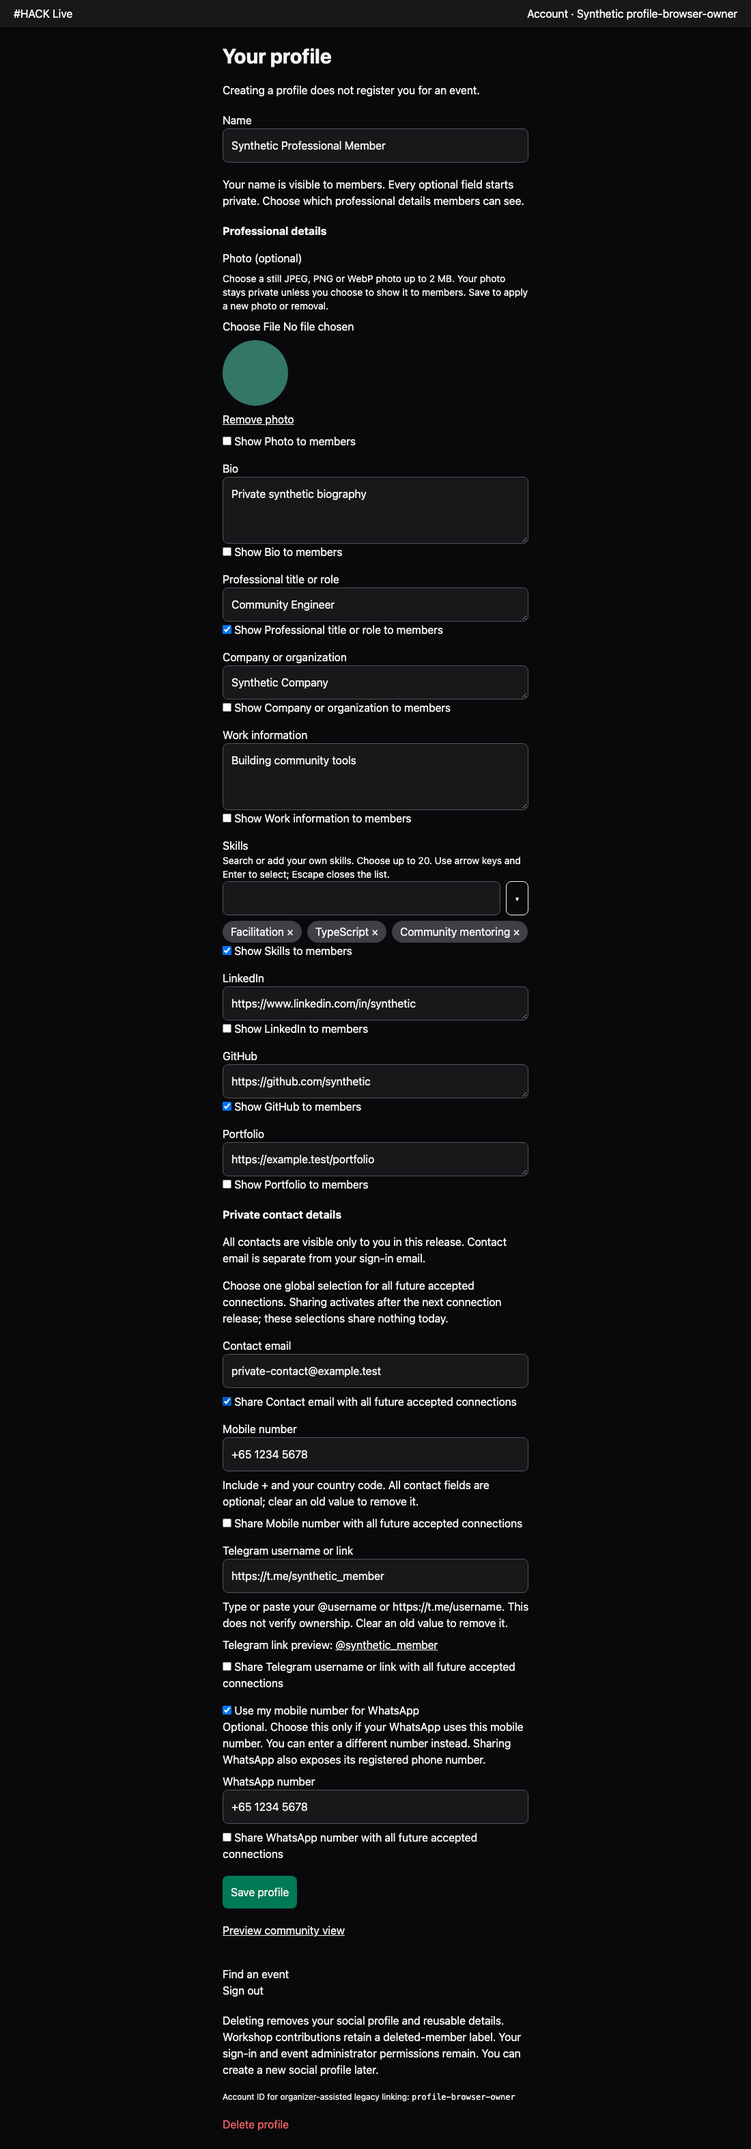
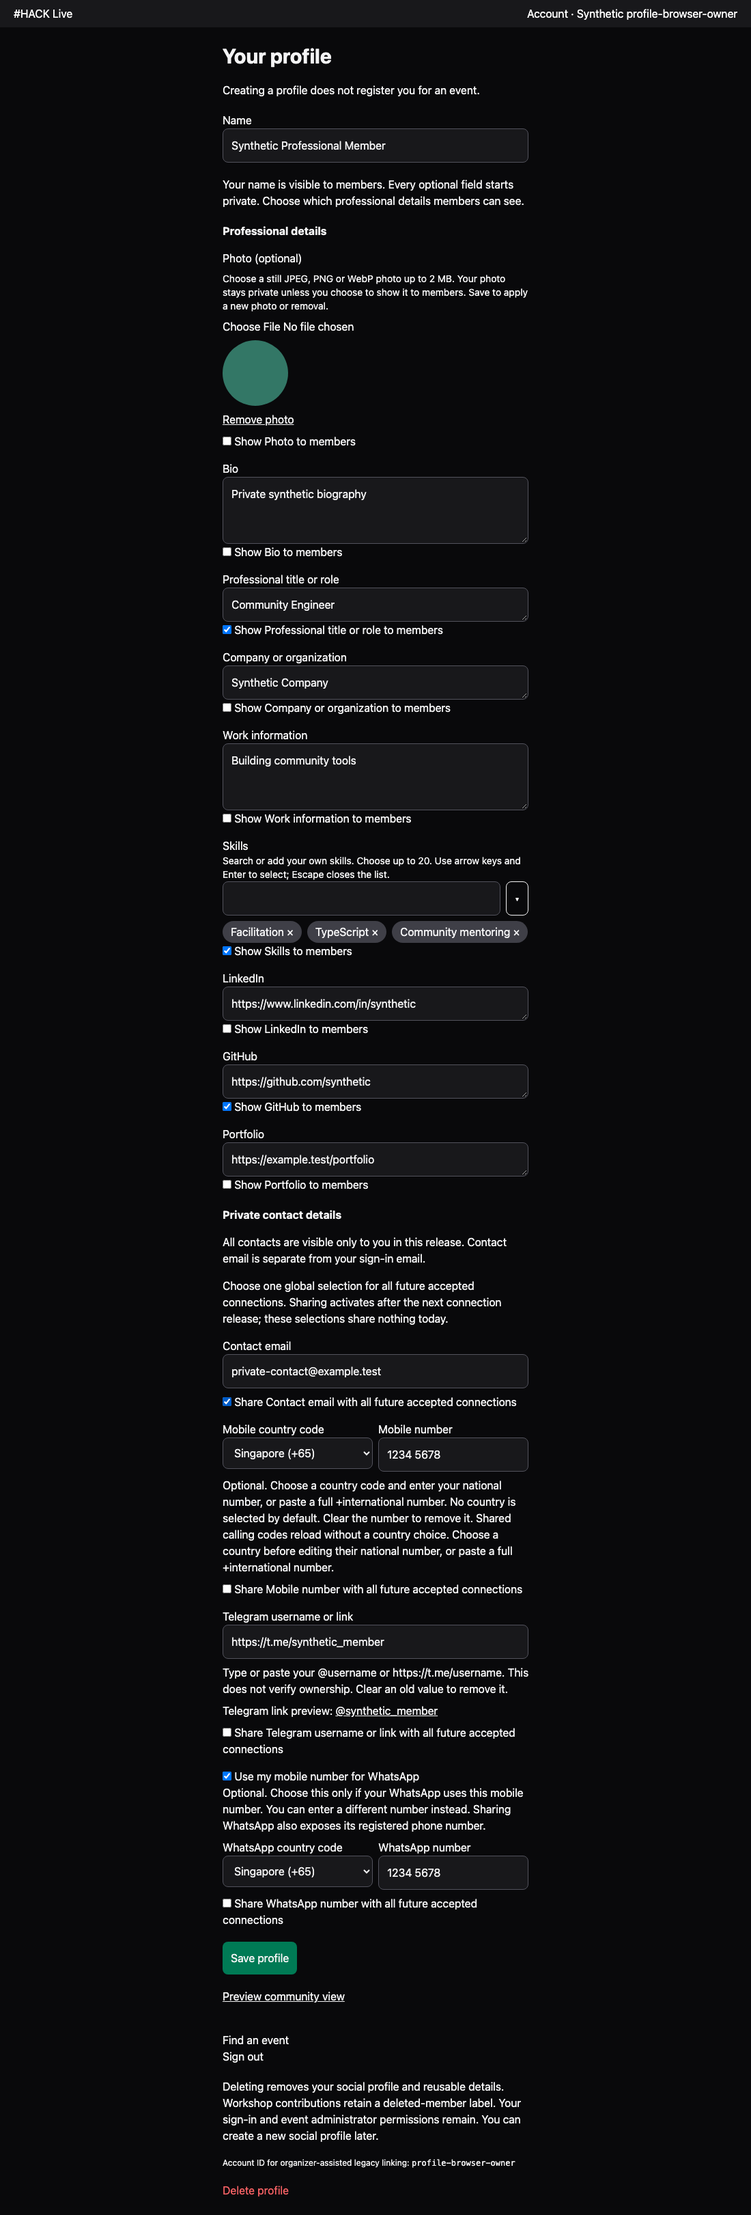
docs(profile): record country selector validation and current demos

Changed region(s): [[0.2782, 0.0312, 0.7109, 0.9968]]

diff --git a/docs/profile-pr2.md b/docs/profile-pr2.md
@@ -38,15 +38,23 @@ Deploy restrictive Firestore rules, bytes-index exemption and trusted server tog
 
 ## Repeatable validation and evidence
 
-Use Node 24, Java 21 and exclusive ports 3000/8080/9099/9150. `npm run typecheck`, `npm run build`, `npm run test:profile`, and `npm run test:emulators` are the established commands. The final paced cumulative emulator run passed all 39 tests: 7 isolated validation/image tests, all 19 parent/PR2 authorization/integrity regressions, 5 photo API/rules tests and 8 Chromium journeys. Auth/Firestore and all people/photos are synthetic `demo-hack-live`; no production data or deployment is involved. The build retains the pre-existing large-bundle advisory.
+Use Node 24, Java 21 and exclusive ports 3000/8080/9099/9150. `npm run typecheck`, `npm run build`, `npm run test:profile`, and `npm run test:emulators` are the established commands. The final paced cumulative emulator run passed all 47 tests: 10 isolated validation/image/parser tests, all 19 parent/PR2 authorization/integrity regressions, 5 photo API/rules tests and 13 Chromium journeys. Auth/Firestore and all people/photos are synthetic `demo-hack-live`; no production data or deployment is involved. The build retains the pre-existing large-bundle advisory.
 
-Pure tests verify skills normalization/bounds, decoded raster content/type/pixels/orientation/metadata and input/output bounds. API/rules tests compare actual uploaded/retrieved bytes, private/default/shared/revoked access, all auth classes, missing/deleting/deleted caller and owner denial, owner/admin direct-rule denial, stale/cross-owner references, replacement/removal, actual body limits, invalid request atomicity, deletion failure/retry and old-attempt protection of fresh photos. Browser tests cover real file selection/preview/private save/reload, keyboard/multi/custom skills persistence, progressive correction of multiple overlong legacy skills and excess skill count with unrelated edits surviving reload, consent-gated other-member rendering, replace/remove drafts, revocation during a delayed real authenticated photo fetch, contact privacy, mobile viewport and deletion. Existing workshop/identity browser regressions remain cumulative.
+Pure tests verify skills normalization/bounds, decoded raster content/type/pixels/orientation/metadata and input/output bounds. API/rules tests compare actual uploaded/retrieved bytes, private/default/shared/revoked access, all auth classes, missing/deleting/deleted caller and owner denial, owner/admin direct-rule denial, stale/cross-owner references, replacement/removal, actual body limits, invalid request atomicity, deletion failure/retry and old-attempt protection of fresh photos. Browser tests cover real file selection/preview/private save/reload, keyboard/multi/custom skills persistence, progressive correction of multiple overlong legacy skills and excess skill count with unrelated edits surviving reload, consent-gated other-member rendering, replace/remove drafts, revocation during a delayed real authenticated photo fetch, contact privacy, mobile viewport and deletion. Country regressions cover explicit selection/no default, national-number preservation on code change, international paste, shared +1/+44/+39 fallbacks, UK/Italian trunk zeros, optional empty/country-only drafts, legacy correction/clear and independent/linked WhatsApp save/reload. Concrete IDD-prefix, unknown-prefix/explicit-choice and shared-code edit regressions verify rejected saves leave stored source unchanged. Real delayed FileReader tests first reproduced stale saves into a different account and a same-uid recreated profile; the final tests require no save request and unchanged target name/source/photo. First profile creation and recreation both open the private editor without reload or a permission error after committed activation. Existing workshop/identity browser regressions remain cumulative.
 
-`PROFILE_DEMO=true npm run test:emulators` repeats the actual suite with four-second reading holds in the profile journey; `node scripts/collect-profile-demo.mjs` stages videos/screenshots only after a passed run. Videos remain ignored. The current owner/other-member recordings were uploaded through the official GitHub CLI attachment command for native inline playback in the PR description; published native players and downloaded byte checksums were verified. Recording provenance, local checksums and current attachment links are recorded in [PR2 evidence](evidence/profile-pr2.md). Synthetic Chromium recordings are not production, live OAuth or real-device evidence.
+`PROFILE_DEMO=true npm run test:emulators` repeats the actual suite with four-second reading holds in the profile journey; `node scripts/collect-profile-demo.mjs` stages videos/screenshots only after a passed run. Videos remain ignored. The current owner, other-member and focused country-selector recordings are local, ignored WebMs; this checkpoint does not upload them or change the PR body. Earlier published videos show a previous editor and are not current selector evidence. Current source, recording provenance, durations, sizes and SHA-256 values are recorded in [PR2 evidence](evidence/profile-pr2.md). Synthetic Chromium recordings are not production, live OAuth or real-device evidence.
 
 ## Contact revision and downstream seam
 
-The optional contact allowlist is `contactEmail`, `phone` (mobile), `telegram`, `whatsapp`. All values remain strings. `whatsappUsesMobile?: boolean` is additive **owner-private** source metadata; missing means false, Save writes an explicit boolean. Only an explicit checked choice derives canonical WhatsApp from mobile on every Save. A missing/invalid linked mobile is correctable by entering an international number or unchecking the choice. Unchecking retains the current number as an independent editable draft. Neither mode nor matching numbers changes either sharing selection. All edits, selections and mode remain drafts until Save. The owner editor uses separate native country-code selectors and national-number inputs for Mobile and WhatsApp. No country is selected for a new number; owners explicitly choose it or paste a full +international number. UI-only drafts use pinned `libphonenumber-js` 1.13.16 with its complete supported-country/calling-code metadata and strict national parsing (GB trunk zero removed, Italian significant zero retained). Country names come from `Intl.DisplayNames`, never locale-based country inference. [Official library documentation](https://github.com/catamphetamine/libphonenumber-js#readme) documents `getCountries`, `getCountryCallingCode`, `parsePhoneNumberFromString` and strict `extract: false`. The dependency adds no network requests, phone lookup or ownership verification. Country selection preserves national digits; international paste overrides a selected prefix without doubling it. International dialing prefixes that parse to a different calling code are rejected with instructions to paste a full +number, rather than re-prefixing the foreign number. An untouched unrecognized legacy +code stays compatible; explicitly choosing a country requires correcting that value before Save. Loaded/pasted international digits bypass national-prefix rewriting until the owner edits them. A country-only empty draft remains optional. Linked WhatsApp mirrors and disables both controls; unchecking retains the mirrored number as its editable separate draft. Sharing flags remain independent. Canonical contacts remain E.164 strings under the existing API validation; no schema, rules, migration or persisted country metadata changes. Existing E.164 values hydrate losslessly, including non-geographic and unrecognized legacy calling codes; malformed legacy text remains correctable/clearable. Edited national digits under a neutral shared calling code require an explicit country choice, or a new full +international paste; Save rejects without writes until corrected. Non-geographic calling codes have a distinct label and require a full +international paste when edited. Shared calling codes (including +1 and +44) reload with a neutral “shared calling code” option rather than a guessed country. Neutral fallback options appear only for the currently loaded/pasted code, with a purpose hint; new-number dropdowns offer country choices only. Choosing a specific country removes the fallback while retaining national digits. A chosen country is intentionally UI-only and may therefore not survive reload. Existing nonallocated but structurally accepted numbers remain compatible; the parser does not assert numbering-plan validity. Sharing WhatsApp reveals its registered number ([official click-to-chat format](https://faq.whatsapp.com/5913398998672934)).
+The optional contact allowlist is `contactEmail`, `phone` (mobile), `telegram`, `whatsapp`. All values remain strings. `whatsappUsesMobile?: boolean` is additive **owner-private** source metadata; missing means false, Save writes an explicit boolean. Only an explicit checked choice derives canonical WhatsApp from mobile on every Save. A missing/invalid linked mobile is correctable by entering an international number or unchecking the choice. Unchecking retains the current number as an independent editable draft. Neither mode nor matching numbers changes either sharing selection. All edits, selections and mode remain drafts until Save. Sharing WhatsApp reveals its registered number ([official click-to-chat format](https://faq.whatsapp.com/5913398998672934)).
+
+The owner editor uses separate native country-code selectors and national-number inputs for Mobile and WhatsApp. No country is selected for a new number; owners explicitly choose it or paste a full +international number. UI-only drafts use pinned `libphonenumber-js` 1.13.16 with its complete supported-country/calling-code metadata and strict national parsing (GB trunk zero removed, Italian significant zero retained). Country names come from `Intl.DisplayNames`, never locale-based country inference. [Official library documentation](https://github.com/catamphetamine/libphonenumber-js#readme) documents `getCountries`, `getCountryCallingCode`, `parsePhoneNumberFromString` and strict `extract: false`. The dependency adds no network requests, phone lookup or ownership verification.
+
+Country selection preserves national digits; international paste overrides a selected prefix without doubling it. International dialing prefixes that parse to a different calling code are rejected with instructions to paste a full +number, rather than re-prefixing the foreign number. An untouched unrecognized legacy +code stays compatible; explicitly choosing a country requires correcting that value before Save. Loaded/pasted international digits bypass national-prefix rewriting until the owner edits them. A country-only empty draft remains optional. Linked WhatsApp mirrors and disables both controls; unchecking retains the mirrored number as its editable separate draft. Sharing flags remain independent.
+
+Canonical contacts remain E.164 strings under the existing API validation; no schema, rules, migration or persisted country metadata changes. Existing E.164 values hydrate losslessly, including non-geographic and unrecognized legacy calling codes; malformed legacy text remains correctable/clearable.
+
+Edited national digits under a neutral shared calling code require an explicit country choice, or a new full +international paste; Save rejects without writes until corrected. Non-geographic calling codes have a distinct label and require a full +international paste when edited. Shared calling codes (including +1 and +44) reload with a neutral “shared calling code” option rather than a guessed country. Neutral fallback options appear only for the currently loaded/pasted code, with a purpose hint; new-number dropdowns offer country choices only. Choosing a specific country removes the fallback while retaining national digits. A chosen country is intentionally UI-only and may therefore not survive reload. Existing nonallocated but structurally accepted numbers remain compatible; the parser does not assert numbering-plan validity.
 
 Telegram accepts plain username, @username, `t.me/username` or exact HTTPS profile link, stored as @username with an owner-only link preview. Safe single-path parsing rejects credentials, other hosts, extra paths, queries, fragments and encoded routes. The character allowlist includes short collectible names rather than imposing the basic username creation minimum; values remain self-reported ([Telegram FAQ](https://telegram.org/faq#q-what-can-i-use-as-my-username), [public username links](https://core.telegram.org/api/links#public-username-links)). Legacy malformed Telegram values remain visible and editable; the editor asks to correct or clear them before Save and preserves unrelated drafts on failure. Standard native email/tel autocomplete supports user-chosen autofill. No clipboard/contacts read or permission, provider login, app detection or bot is introduced. [Contact Picker](https://developer.mozilla.org/en-US/docs/Web/API/Contact_Picker_API) has limited browser support and standard contact data rather than Telegram usernames. [Official Telegram Login](https://core.telegram.org/bots/telegram-login) requires a bot, registered allowed URLs and credentials; that is separate future scope.
 

diff --git a/docs/evidence/profile-pr2.md b/docs/evidence/profile-pr2.md
@@ -1,34 +1,44 @@
-# PR2 profile and contact evidence
+# PR2 country selector evidence
 
-The owner/other-member recordings are actual Playwright Chromium interactions with synthetic Firebase Auth/Firestore emulators (`demo-hack-live`). They use real generated PNG file bytes, the trusted server decoder/storage/read path and actual sharing rules. No Firebase/Auth substitute, fabricated UI or production data is involved. `PROFILE_DEMO=true` adds four-second reading holds at key screens.
+Current recordings are actual Playwright Chromium interactions with synthetic Firebase Auth/Firestore emulators (`demo-hack-live`). File selection uses real generated PNG bytes, native FileReader, the trusted image decoder and authenticated API/rules. No fabricated UI, production data or live messaging is involved. `PROFILE_DEMO=true` adds four-second reading holds.
 
-The recordings use validated source `84f31d6feeb9c60366672f985b5e0570a2ad599f`; the publication followup changes documentation only. The passing paced cumulative run passed **39 tests**: 7 pure validation/image tests, 24 API/rules tests (19 identity and 5 photo) and 8 Chromium journeys. Node 24 typecheck and production build passed; the existing large-bundle advisory remains. All local services were shut down and ports 3000/8080/9099/9150 verified free. No production data or deployment was used.
+Validated product/test source: `fd214e4dcba79fef3422c570622709a2e8a71012`. The final paced cumulative run passed **47 tests**: 10 pure/image/parser tests, 24 API/rules tests (19 identity and 5 photo), and 13 Chromium journeys. Node **24.22.2** typecheck and production build passed with Java 21.0.1; the existing large-bundle advisory remains. A later evidence commit changes documentation/screenshots only.
 
-Both native video attachments were uploaded using the official GitHub CLI attachment command with task-local CLI and scoped credentials. Their published native players were checked and downloaded bytes matched the frozen local SHA-256 values below. No Chrome access, real messaging targets, login-provider infrastructure or device permissions were involved. Local WebMs remain ignored and uncommitted.
+The three current WebMs are local, ignored and uncommitted. They have **not** been uploaded or inserted into a PR body in this checkpoint; publication remains with the coordinating root after acceptance. Earlier native attachments show a previous contact editor and are not current country-selector evidence.
 
-## Owner: photo, searchable skills and private contact choices
+## Owner: current profile editor
 
-https://github.com/user-attachments/assets/bf959c7c-743c-4151-a830-618814050fbb
[1 lines of base64/hex data omitted]
 
[1 lines of base64/hex data omitted]
+Shows real photo selection, searchable/custom skills, private contacts and independent consent, community preview, save/reload, photo replacement/revocation/removal, mobile viewport and deletion. The country selector visibly changes from United Kingdom (+44) to Singapore (+65) while national digits stay unchanged (readable holds around 14 and 24 seconds). WhatsApp linking is explicit; Telegram preview remains owner-only.
 
-Shows searchable predefined/custom skills, keyboard selection, removable chips and persistence; invalid-file feedback, real PNG preview, private save/reload and selected community preview; Telegram link entry with safe owner preview; explicit same-mobile WhatsApp choice, independent sharing selections and registered-number exposure hint; photo sharing/replacement/revocation/removal, mobile viewport and deletion. No Signal field is displayed. The contact area is readable around 12 seconds and again at the narrow viewport hold around 54 seconds. Neither Telegram nor WhatsApp targets are opened or messaged.
+## Other member: selected projection and revocation
 
-## Other member: selected professional details and live photo revocation
[1 lines of base64/hex data omitted]
 
-https://github.com/user-attachments/assets/aaefd12f-9653-4593-93c7-ff80cb9e0edf
+An independent real signed-in member sees selected professional fields and an uploaded photo only after consent; replacement/revocation and deletion update the view. Private contacts and WhatsApp mode stay absent. Decoded frames around 8 and 15 seconds show the selected photo present and later revoked.
 
[1 lines of base64/hex data omitted]
+## Owner: focused country selector journey
 
-An independent signed-in member initially sees selected title, skills and GitHub, while private photo/bio/company/contacts remain absent. Explicit photo consent makes the uploaded image visible; replacement updates it. Revocation removes it, including when a real authenticated image response is delayed. Title revocation and profile deletion update the view live. Contacts and WhatsApp mode remain owner-private throughout.
[1 lines of base64/hex data omitted]
+
+Focused changed UI: Singapore national input, linked disabled Mobile/WhatsApp controls, +1 paste, explicit US/Canada choice preserving digits, independent UK WhatsApp with national trunk zero, save/reload, Italy significant zero, optional clear and a narrow keyboard-driven selector. Holds around 4, 9 and 15 seconds show linked Singapore, linked Canada and separate UK WhatsApp. The 390×844 resized desktop viewport is letterboxed inside the fixed recording canvas; it is not real-device evidence.
+
+## Regression proof and limits
+
+Pure and real-browser regressions cover no default country, complete maintained country options, national input, code changes preserving digits, paste without double prefix, shared calling codes, GB trunk-zero removal, Italian significant-zero retention, legacy invalid/unknown values, optional clear/country-only drafts and linked/separate WhatsApp persistence. Rejected IDD/foreign-prefix, explicit-country/unknown-prefix and reloaded shared-code edits leave stored source unchanged; selecting the country or pasting a full international number corrects them. New dropdowns contain country choices only; only the current loaded/pasted shared fallback appears, remains enabled and disappears when a specific country is chosen.
+
+A deterministic real-auth test delayed delivery of actual FileReader bytes across A→B sign-out/sign-in; another deleted and recreated A with the same UID before releasing the old reader. Both failed on the prior source by replacing the current target name with A’s pending name. The final owner/lifetime fence tests pass with zero save requests and unchanged target name/private details/photo. Creation/recreation also reach the private editor with no permission alert or reload after the committed-profile gate backport. No server, rules, schema or migration changes were needed for these fixes.
+
+Decoded recording frames and screenshots were visually inspected: country changes, disabled linked controls, independent UK WhatsApp, selected member photo and revocation are visible. Browser assertions verify the narrow layout has no horizontal overflow. Full-page screenshot capture can briefly rescale a frame in the continuous owner recording; the focused selector clip supplies readable contact holds. These are synthetic desktop Chromium recordings, not live OAuth, production or real-device evidence.
 
 ## Screenshots
 
-[Owner form](pr2-profile-owner-form.png), [community preview](pr2-profile-community-preview.png), [other-member view](pr2-profile-other-member.png), [mobile viewport preview](pr2-profile-mobile-preview.png) are captured from the passing revised journey. The 390×844 case is resized desktop Chromium, not a real phone.
+[Owner form](pr2-profile-owner-form.png), [community preview](pr2-profile-community-preview.png), [other-member view](pr2-profile-other-member.png), [mobile preview](pr2-profile-mobile-preview.png), [country controls](pr2-profile-country-selectors.png), [mobile country controls](pr2-profile-country-selectors-mobile.png).
 
-## Reproduce and limits
+## Reproduce
 
-Use Node 24, Java 21 and exclusive local ports 3000/8080/9099/9150:
+Activate Node 24 and Java 21, reserve ports 3000/8080/9099/9150, then run:
 
 ```sh
 rtk npm ci
@@ -39,12 +49,4 @@ rtk proxy env PROFILE_DEMO=true npm run test:emulators
 rtk proxy node scripts/collect-profile-demo.mjs
 ```
 
-The paced cumulative run passed all 39 tests: 7 pure/image, 24 API/rules and 8 Chromium journeys. Contact regressions cover private drafts/save/reload, retired Signal removal, invalid legacy Telegram correction/removal, normalized username/profile links including short collectible names, linked mobile edits, separate WhatsApp numbers and independent sharing consent. Typecheck and production build also passed (existing bundle-size advisory). Screenshots and decoded video frames were visually inspected; photo preview and selected member image are visible, and the narrow layout wraps without horizontal overflow. Test fixtures run serially. A strengthened stale-photo precondition required the older API reset fixture to send the current photo reference and explicit removal; the product correctly returned 409 for the obsolete implicit-clear request. The updated fixture and full rerun validate the deliberate new contract. Independent review additionally found missing active-caller authorization and legacy-skill removal validation that blocked correction; both are fixed with API/browser regressions in the final cumulative run.
-
-No live Google consent, production deployment or real-device testing is represented here. Architecture, schema, exact teaming integration evidence and rollback/storage configuration: [profile-pr2.md](../profile-pr2.md). Parent PR1 browser regressions remain included.
-
-## Recording policy
-
-The two videos above replace earlier recordings, including the retired Signal UI. They demonstrate the current contact editor together with actual photo upload and searchable skills. Earlier assets are not presented as current evidence.
-
-Recording collectors write local videos to `docs/evidence/`; `docs/evidence/*.webm` is ignored. Upload recordings directly into the PR description under separate contextual headings. Do not commit or force-add videos. CI also retains complete successful browser artifacts for 14 days.
+The collector requires a passing browser run and stages three recordings plus six screenshots. `docs/evidence/*.webm` stays ignored; do not force-add videos. All granted services were shut down and ports 3000/8080/9099/9150 verified free after the final run. No merge, deployment, migration, production operation or reviewer message occurred. Architecture/backward compatibility and the unchanged data contract are documented in [profile-pr2.md](../profile-pr2.md).
